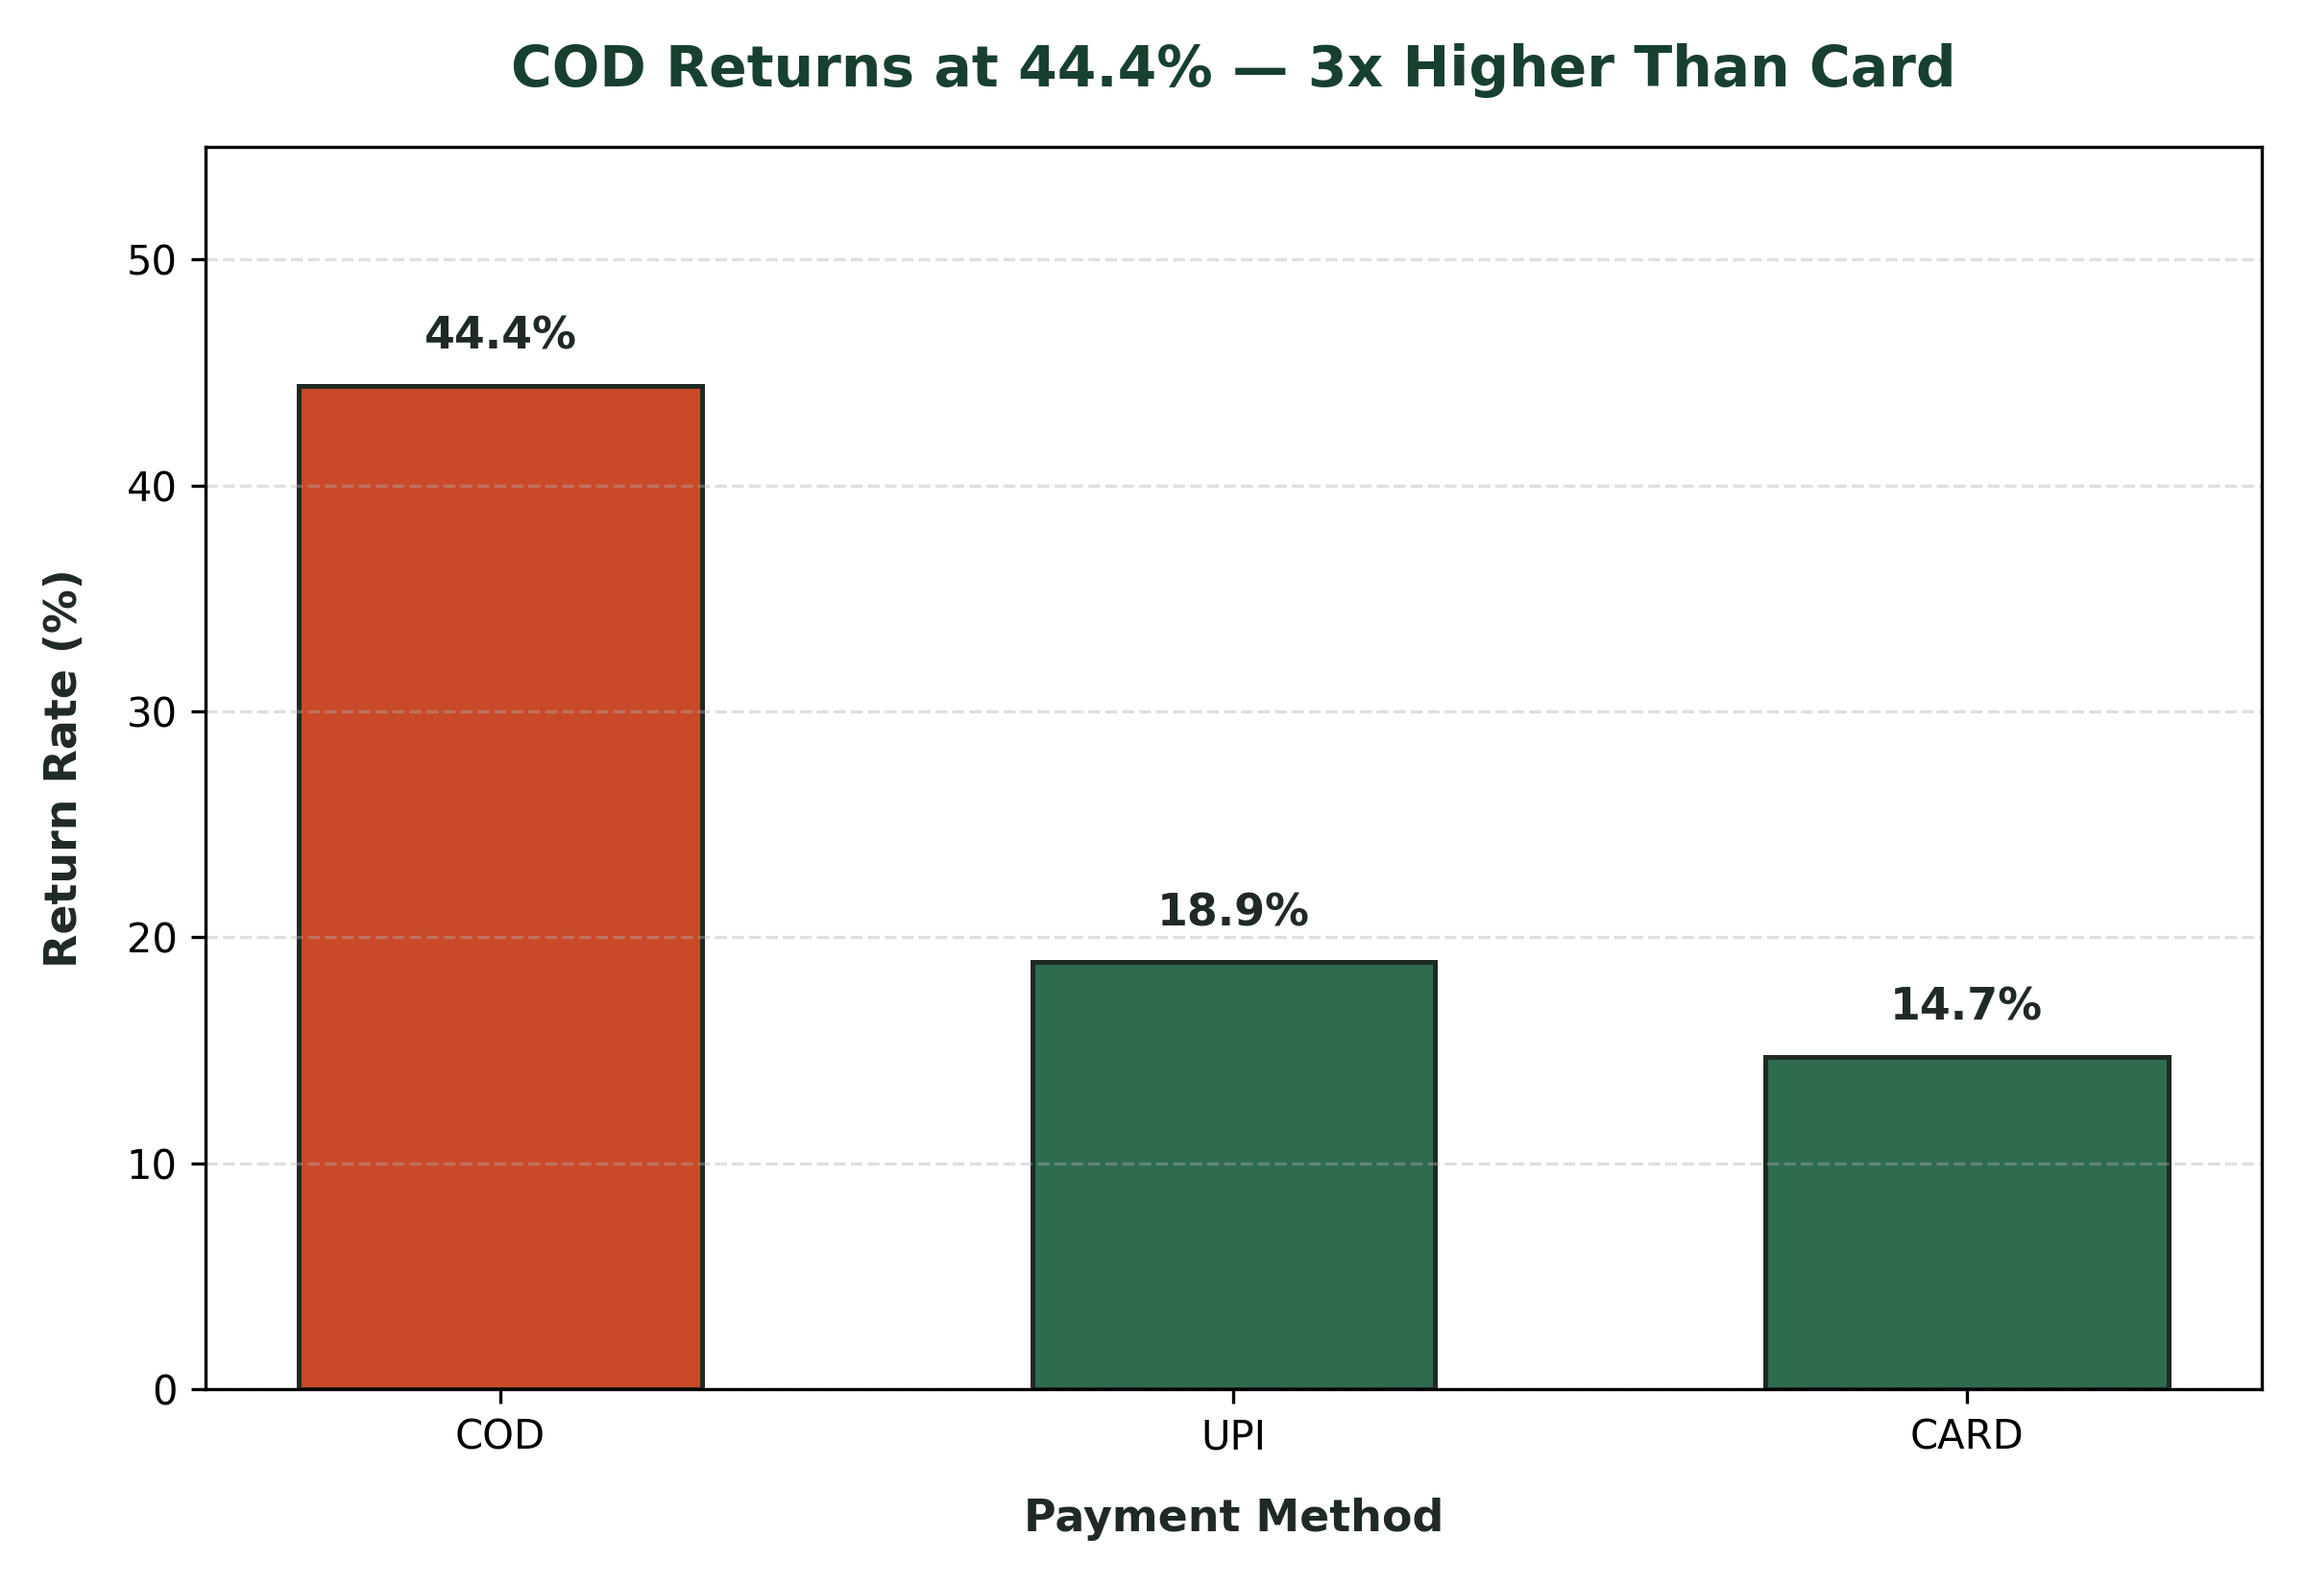
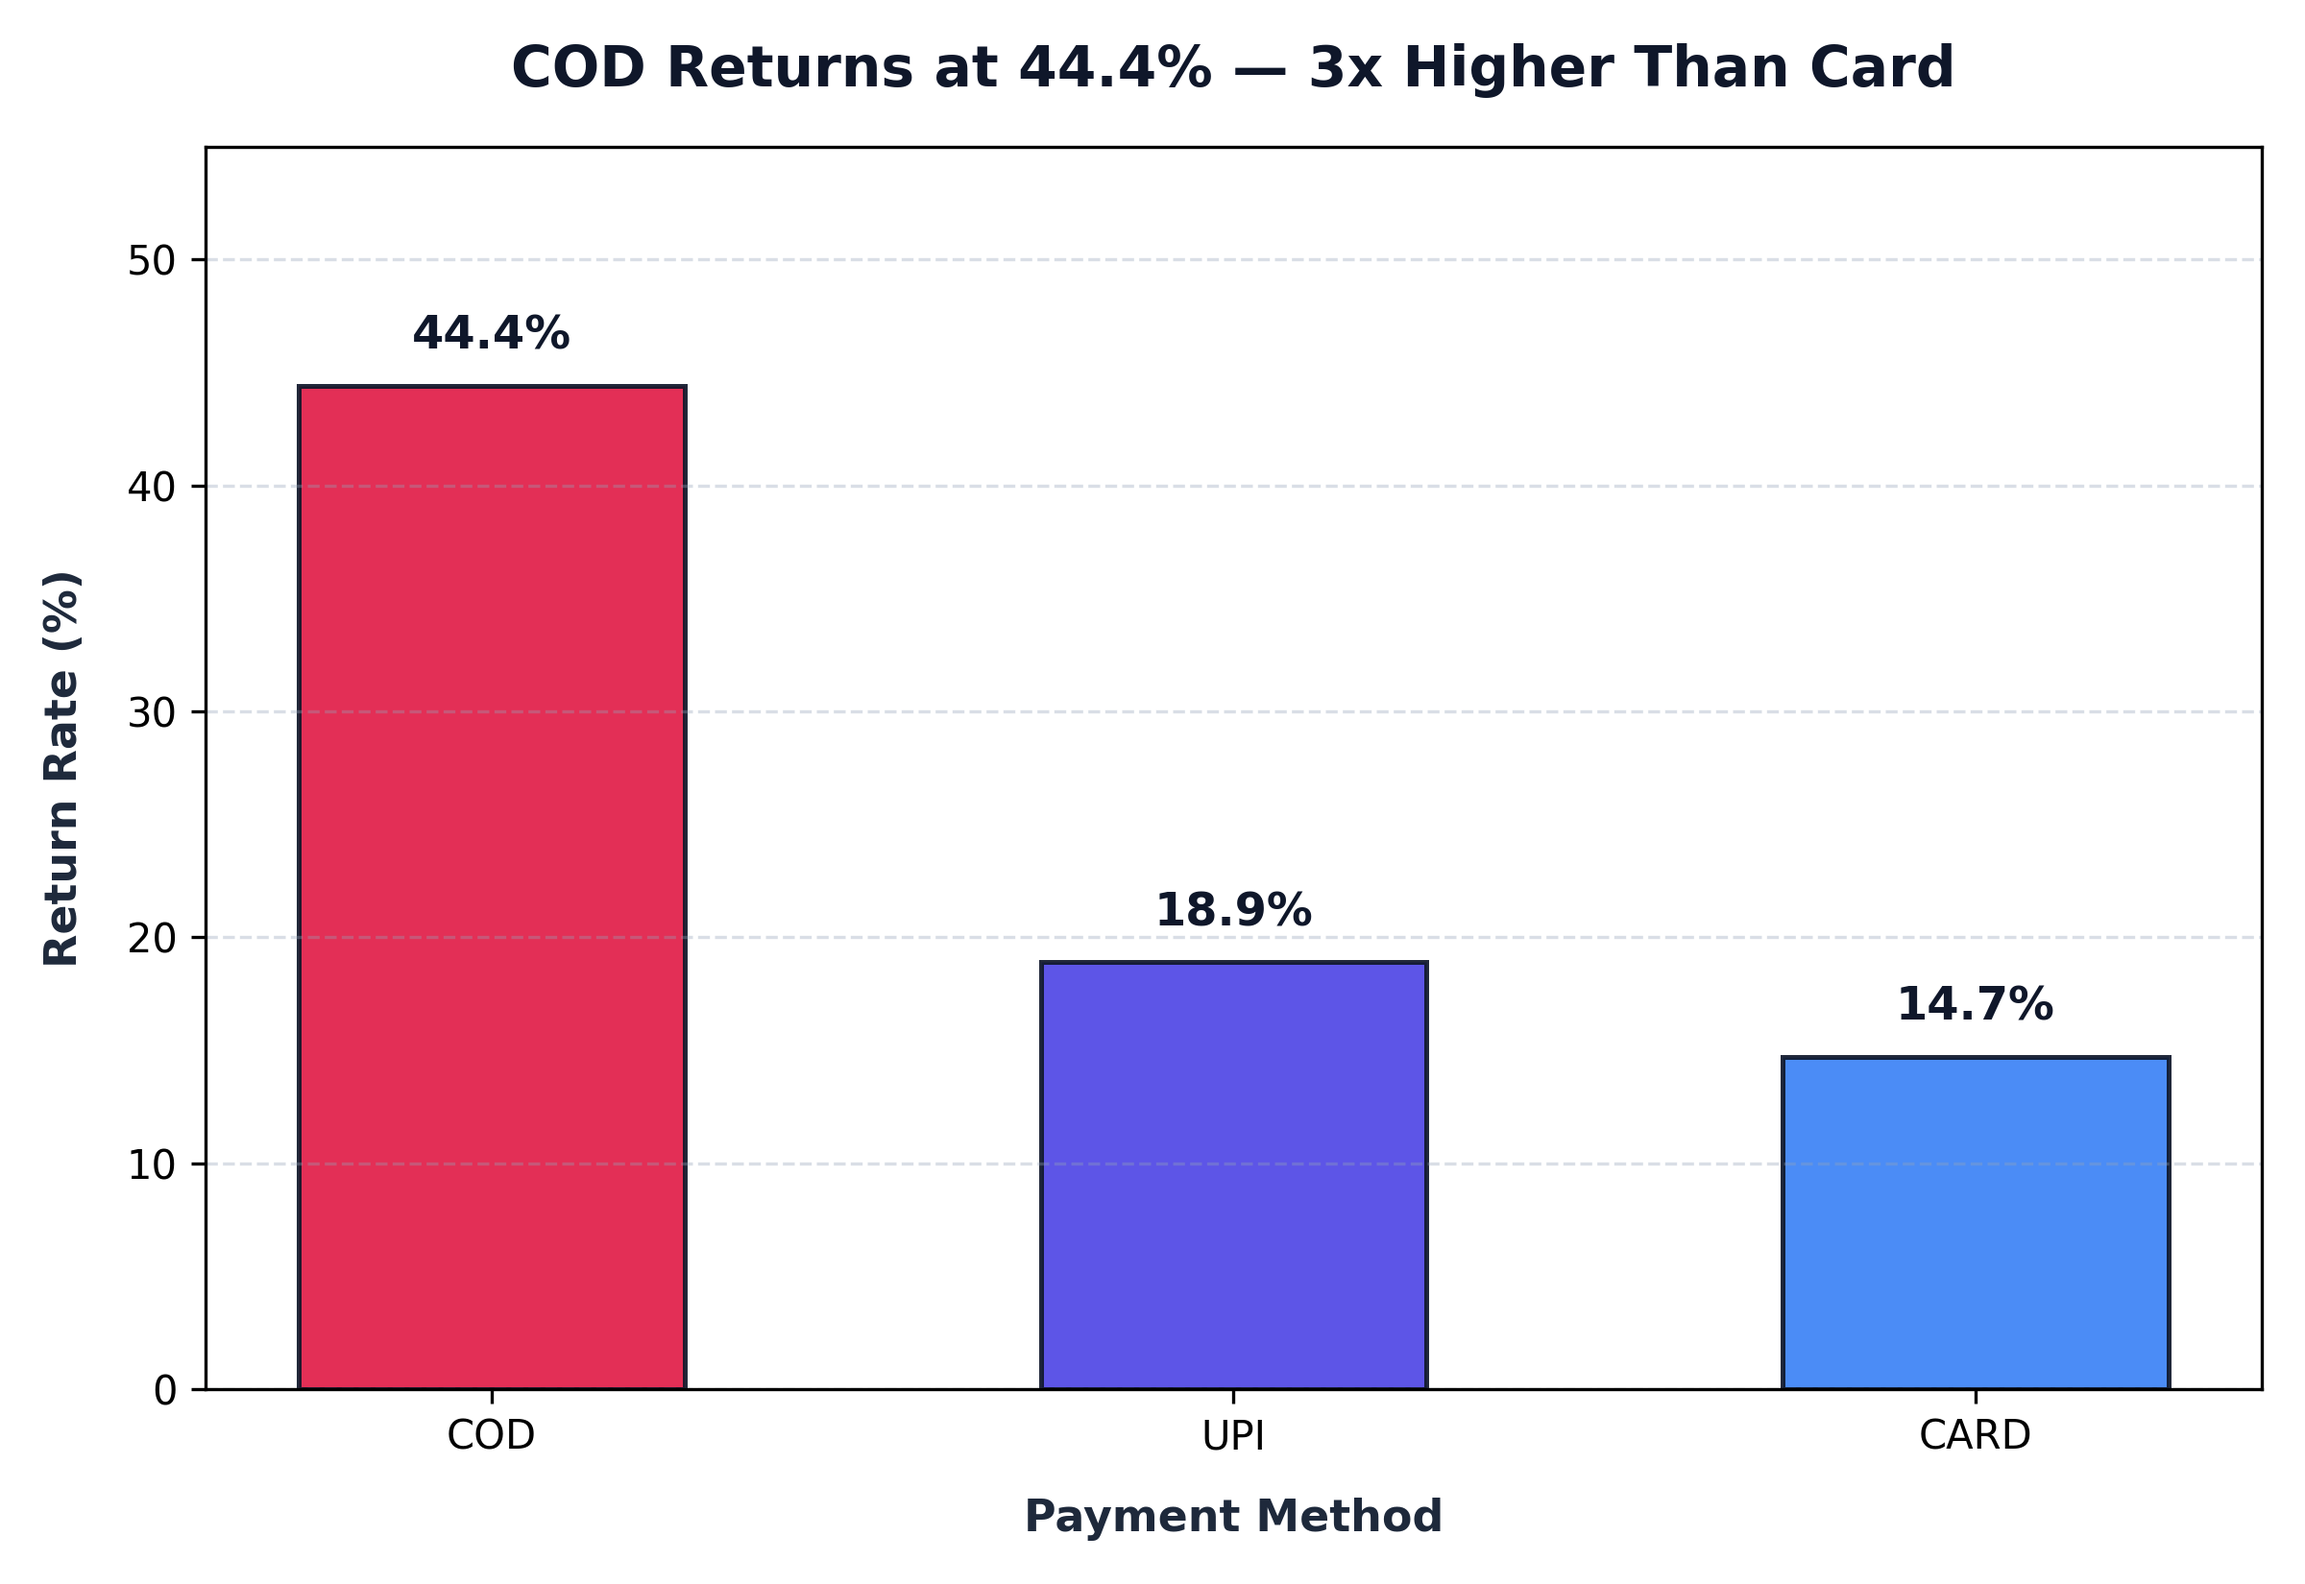
style: update return rate bar chart to Royal Indigo & Coral accent palette

diff --git a/analysis/visualize.py b/analysis/visualize.py
@@ -58,23 +58,39 @@ def generate_visualizations():
     df["is_outlier"] = df["quantity"] > upper_bound
 
     # -------------------------------------------------------------------------
-    # Chart 1: Return Rate by Payment Method (Bar Chart)
+    # Chart 1: Return Rate by Payment Method (Bar Chart - Royal Indigo & Coral)
     # -------------------------------------------------------------------------
     rr_df = df.groupby("payment_method")["returned"].agg(["count", "mean"]).reset_index()
     rr_df["return_rate_pct"] = (rr_df["mean"] * 100).round(1)
     rr_df = rr_df.sort_values(by="return_rate_pct", ascending=False)
 
     plt.figure(figsize=(8, 5.5), dpi=300)
-    colors = ["#C94A29" if pm == "COD" else "#2E6B4F" for pm in rr_df["payment_method"]]
-    bars = plt.bar(rr_df["payment_method"], rr_df["return_rate_pct"], color=colors, width=0.55, edgecolor="#1F2A24", linewidth=1.2)
+    
+    # Modern Royal Indigo & Vibrant Coral Accent Palette
+    palette_map = {
+        "COD": "#E11D48",   # Vibrant Coral/Rose for high-risk COD
+        "UPI": "#4F46E5",   # Royal Indigo for UPI
+        "CARD": "#3B82F6",  # Electric Blue for CARD
+    }
+    colors = [palette_map.get(pm, "#4F46E5") for pm in rr_df["payment_method"]]
+    
+    bars = plt.bar(
+        rr_df["payment_method"],
+        rr_df["return_rate_pct"],
+        color=colors,
+        width=0.52,
+        edgecolor="#0F172A",
+        linewidth=1.2,
+        alpha=0.92,
+    )
 
-    plt.title("COD Returns at 44.4% — 3x Higher Than Card", fontsize=14, fontweight="bold", pad=15, color="#17402F")
-    plt.xlabel("Payment Method", fontsize=11, fontweight="bold", labelpad=10, color="#1F2A24")
-    plt.ylabel("Return Rate (%)", fontsize=11, fontweight="bold", labelpad=10, color="#1F2A24")
+    plt.title("COD Returns at 44.4% — 3x Higher Than Card", fontsize=14, fontweight="bold", pad=15, color="#0F172A")
+    plt.xlabel("Payment Method", fontsize=11, fontweight="bold", labelpad=10, color="#1E293B")
+    plt.ylabel("Return Rate (%)", fontsize=11, fontweight="bold", labelpad=10, color="#1E293B")
     plt.ylim(0, 55)
-    plt.grid(axis="y", linestyle="--", alpha=0.4)
+    plt.grid(axis="y", linestyle="--", alpha=0.35, color="#94A3B8")
 
-    # Annotate bar values
+    # Annotate bar values with clean formatting
     for bar in bars:
         height = bar.get_height()
         plt.text(
@@ -83,16 +99,16 @@ def generate_visualizations():
             f"{height:.1f}%",
             ha="center",
             va="bottom",
-            fontsize=11,
+            fontsize=11.5,
             fontweight="bold",
-            color="#1F2A24",
+            color="#0F172A",
         )
 
     plt.tight_layout()
     chart1_path = os.path.join("visualizations", "return_rate_by_payment.png")
     plt.savefig(chart1_path, dpi=300)
     plt.close()
-    print(f"Saved Chart 1: {chart1_path}")
+    print(f"Saved Chart 1 (Royal Indigo & Coral): {chart1_path}")
 
     # -------------------------------------------------------------------------
     # Chart 2: Monthly Revenue Trend (Outlier-Corrected Line Chart)
